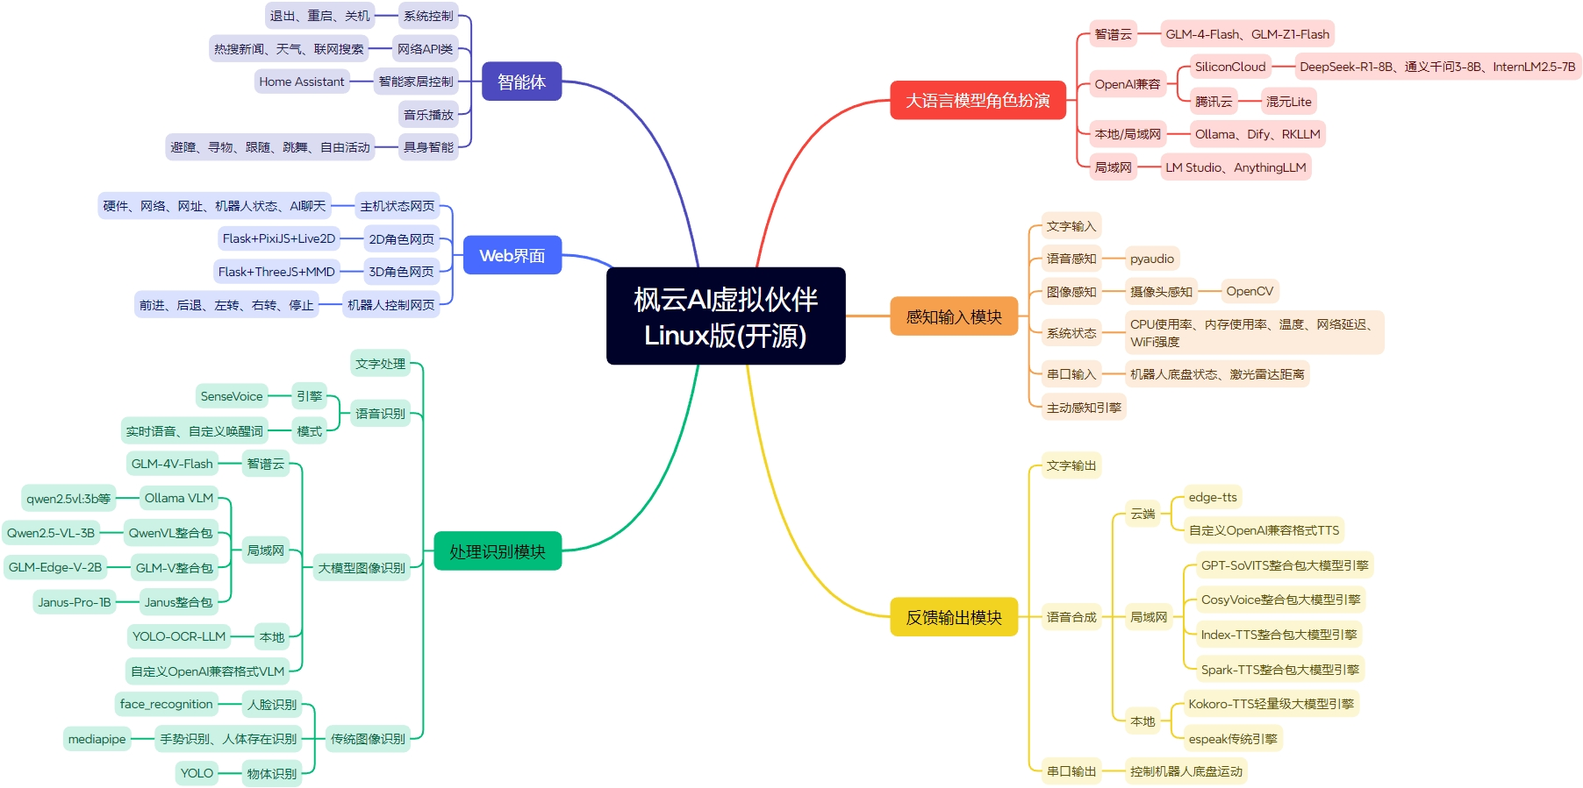
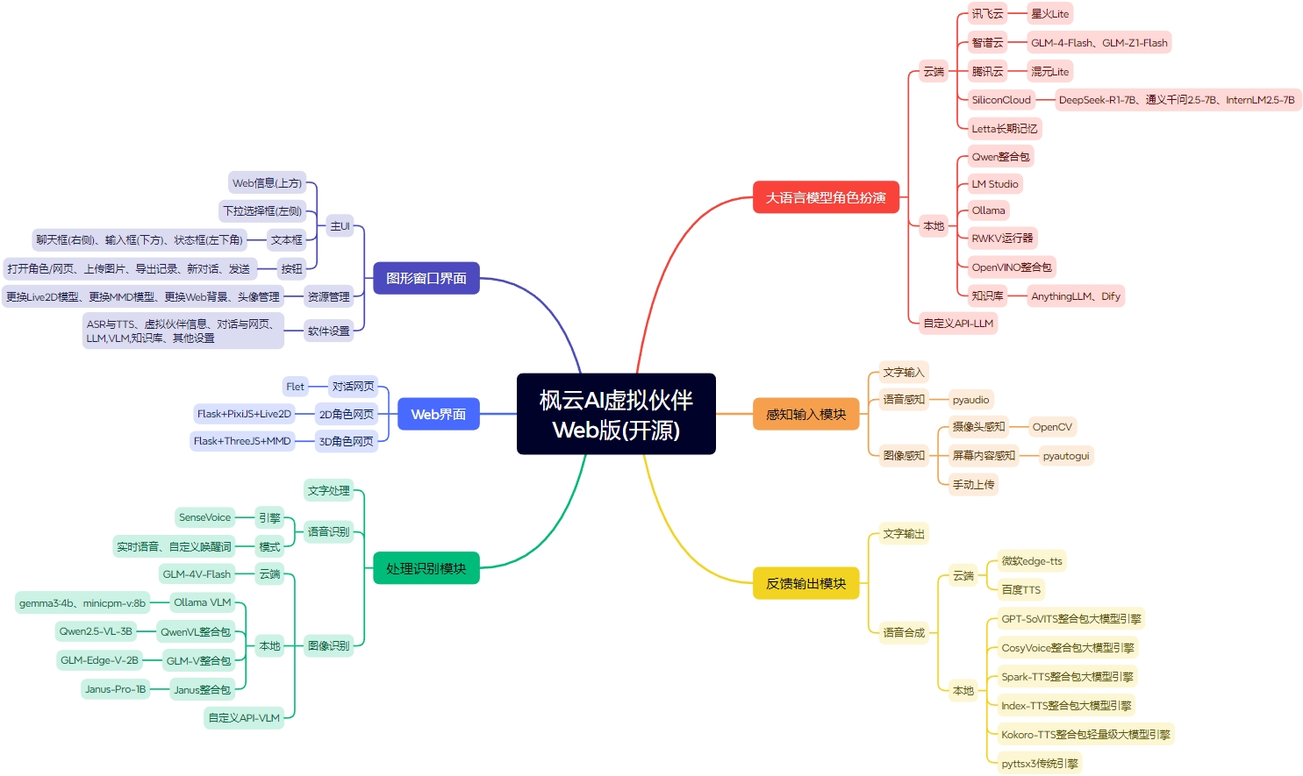
Add files via upload

diff --git a/dist/assets/live2d.js b/dist/assets/live2d.js
@@ -1,8 +1,3 @@
-const Live2DPath = "assets/live2d_model/hiyori_free_t08/hiyori_free_t08.model3.json"; // 模型路径,每次更换模型都需要调整
-const model_x = 725; // 模型横坐标,更换模型后一般需要调整
-const model_y = 0; // 模型纵坐标,更换模型后一般需要调整
-const model_scale = .15; // 模型大小,更换模型后可能需要调整
-
 (function(){const t=document.createElement("link").relList;if(t&&t.supports&&t.supports("modulepreload"))return;for(const n of document.querySelectorAll('link[rel="modulepreload"]'))i(n);new MutationObserver(n=>{for(const s of n)if(s.type==="childList")for(const a of s.addedNodes)a.tagName==="LINK"&&a.rel==="modulepreload"&&i(a)}).observe(document,{childList:!0,subtree:!0});function e(n){const s={};return n.integrity&&(s.integrity=n.integrity),n.referrerPolicy&&(s.referrerPolicy=n.referrerPolicy),n.crossOrigin==="use-credentials"?s.credentials="include":n.crossOrigin==="anonymous"?s.credentials="omit":s.credentials="same-origin",s}function i(n){if(n.ep)return;n.ep=!0;const s=e(n);fetch(n.href,s)}})();function Yd(r){var t=this.constructor;return this.then(function(e){return t.resolve(r()).then(function(){return e})},function(e){return t.resolve(r()).then(function(){return t.reject(e)})})}function qd(r){var t=this;return new t(function(e,i){if(!(r&&typeof r.length<"u"))return i(new TypeError(typeof r+" "+r+" is not iterable(cannot read property Symbol(Symbol.iterator))"));var n=Array.prototype.slice.call(r);if(n.length===0)return e([]);var s=n.length;function a(h,f){if(f&&(typeof f=="object"||typeof f=="function")){var c=f.then;if(typeof c=="function"){c.call(f,function(_){a(h,_)},function(_){n[h]={status:"rejected",reason:_},--s===0&&e(n)});return}}n[h]={status:"fulfilled",value:f},--s===0&&e(n)}for(var o=0;o<n.length;o++)a(o,n[o])})}function Vl(r,t){this.name="AggregateError",this.errors=r,this.message=t||""}Vl.prototype=Error.prototype;function $d(r){var t=this;return new t(function(e,i){if(!(r&&typeof r.length<"u"))return i(new TypeError("Promise.any accepts an array"));var n=Array.prototype.slice.call(r);if(n.length===0)return i();for(var s=[],a=0;a<n.length;a++)try{t.resolve(n[a]).then(e).catch(function(o){s.push(o),s.length===n.length&&i(new Vl(s,"All promises were rejected"))})}catch(o){i(o)}})}var Zd=setTimeout;function zl(r){return!!(r&&typeof r.length<"u")}function Kd(){}function Jd(r,t){return function(){r.apply(t,arguments)}}function Jt(r){if(!(this instanceof Jt))throw new TypeError("Promises must be constructed via new");if(typeof r!="function")throw new TypeError("not a function");this._state=0,this._handled=!1,this._value=void 0,this._deferreds=[],Yl(r,this)}function Wl(r,t){for(;r._state===3;)r=r._value;if(r._state===0){r._deferreds.push(t);return}r._handled=!0,Jt._immediateFn(function(){var e=r._state===1?t.onFulfilled:t.onRejected;if(e===null){(r._state===1?Za:mn)(t.promise,r._value);return}var i;try{i=e(r._value)}catch(n){mn(t.promise,n);return}Za(t.promise,i)})}function Za(r,t){try{if(t===r)throw new TypeError("A promise cannot be resolved with itself.");if(t&&(typeof t=="object"||typeof t=="function")){var e=t.then;if(t instanceof Jt){r._state=3,r._value=t,Ka(r);return}else if(typeof e=="function"){Yl(Jd(e,t),r);return}}r._state=1,r._value=t,Ka(r)}catch(i){mn(r,i)}}function mn(r,t){r._state=2,r._value=t,Ka(r)}function Ka(r){r._state===2&&r._deferreds.length===0&&Jt._immediateFn(function(){r._handled||Jt._unhandledRejectionFn(r._value)});for(var t=0,e=r._deferreds.length;t<e;t++)Wl(r,r._deferreds[t]);r._deferreds=null}function Qd(r,t,e){this.onFulfilled=typeof r=="function"?r:null,this.onRejected=typeof t=="function"?t:null,this.promise=e}function Yl(r,t){var e=!1;try{r(function(i){e||(e=!0,Za(t,i))},function(i){e||(e=!0,mn(t,i))})}catch(i){if(e)return;e=!0,mn(t,i)}}Jt.prototype.catch=function(r){return this.then(null,r)};Jt.prototype.then=function(r,t){var e=new this.constructor(Kd);return Wl(this,new Qd(r,t,e)),e};Jt.prototype.finally=Yd;Jt.all=function(r){return new Jt(function(t,e){if(!zl(r))return e(new TypeError("Promise.all accepts an array"));var i=Array.prototype.slice.call(r);if(i.length===0)return t([]);var n=i.length;function s(o,h){try{if(h&&(typeof h=="object"||typeof h=="function")){var f=h.then;if(typeof f=="function"){f.call(h,function(c){s(o,c)},e);return}}i[o]=h,--n===0&&t(i)}catch(c){e(c)}}for(var a=0;a<i.length;a++)s(a,i[a])})};Jt.any=$d;Jt.allSettled=qd;Jt.resolve=function(r){return r&&typeof r=="object"&&r.constructor===Jt?r:new Jt(function(t){t(r)})};Jt.reject=function(r){return new Jt(function(t,e){e(r)})};Jt.race=function(r){return new Jt(function(t,e){if(!zl(r))return e(new TypeError("Promise.race accepts an array"));for(var i=0,n=r.length;i<n;i++)Jt.resolve(r[i]).then(t,e)})};Jt._immediateFn=typeof setImmediate=="function"&&function(r){setImmediate(r)}||function(r){Zd(r,0)};Jt._unhandledRejectionFn=function(t){typeof console<"u"&&console&&console.warn("Possible Unhandled Promise Rejection:",t)};var Es=typeof globalThis<"u"?globalThis:typeof window<"u"?window:typeof global<"u"?global:typeof self<"u"?self:{};function Bs(r){return r&&r.__esModule&&Object.prototype.hasOwnProperty.call(r,"default")?r.default:r}/*
 object-assign
 (c) Sindre Sorhus
@@ -1583,12 +1578,12 @@ PERFORMANCE OF THIS SOFTWARE.
 `,a),s(a)}return Promise.resolve(void 0)}static loadExpression(r,t){var e;const i=n=>r.emit("expressionLoadError",t,n);try{const n=r.definitions[t];if(!n)return Promise.resolve(void 0);r.listeners("destroy").includes(ve.releaseTasks)||r.once("destroy",ve.releaseTasks);let s=ve.expressionTasksMap.get(r);s||(s=[],ve.expressionTasksMap.set(r,s));const a=r.getExpressionFile(n);return(e=s[t])!=null||(s[t]=Hr.load({url:a,settings:r.settings,type:"json",target:r}).then(o=>{const h=ve.expressionTasksMap.get(r);h&&delete h[t];const f=r.createExpression(o,n);return r.emit("expressionLoaded",t,f),f}).catch(o=>{Ut.warn(r.tag,`Failed to load expression: ${a}
 `,o),i(o)})),s[t]}catch(n){Ut.warn(r.tag,`Failed to load expression at [${t}]
 `,n),i(n)}return Promise.resolve(void 0)}static releaseTasks(){this instanceof $u?ve.motionTasksMap.delete(this):ve.expressionTasksMap.delete(this)}};let Qt=ve;Qt.runtimes=[];Qt.urlToJSON=qc;Qt.jsonToSettings=$c;Qt.waitUntilReady=Zc;Qt.setupOptionals=Kc;Qt.setupEssentials=Jc;Qt.createInternalModel=Qc;Qt.live2DModelMiddlewares=[qc,$c,Zc,Kc,Jc,Qc];Qt.motionTasksMap=new WeakMap;Qt.expressionTasksMap=new WeakMap;$u.prototype._loadMotion=function(r,t){return Qt.loadMotion(this,r,t)};Wc.prototype._loadExpression=function(r){return Qt.loadExpression(this,r)};class lb{constructor(){this._autoInteract=!1}get autoInteract(){return this._autoInteract}set autoInteract(t){t!==this._autoInteract&&(t?this.on("pointertap",Gl,this):this.off("pointertap",Gl,this),this._autoInteract=t)}registerInteraction(t){t!==this.interactionManager&&(this.unregisterInteraction(),this._autoInteract&&t&&(this.interactionManager=t,t.on("pointermove",Hl,this)))}unregisterInteraction(){var t;this.interactionManager&&((t=this.interactionManager)==null||t.off("pointermove",Hl,this),this.interactionManager=void 0)}}function Gl(r){this.tap(r.data.global.x,r.data.global.y)}function Hl(r){this.focus(r.data.global.x,r.data.global.y)}class fb extends js{}const Oe=new kt,cb=new Yt;let Dr;class td extends Xe{constructor(t){super(),this.tag="Live2DModel(uninitialized)",this.textures=[],this.transform=new fb,this.anchor=new Lr(this.onAnchorChange,this,0,0),this.glContextID=-1,this.elapsedTime=performance.now(),this.deltaTime=0,this._autoUpdate=!1,this.once("modelLoaded",()=>this.init(t))}static from(t,e){const i=new this(e);return Qt.setupLive2DModel(i,t,e).then(()=>i)}static fromSync(t,e){const i=new this(e);return Qt.setupLive2DModel(i,t,e).then(e?.onLoad).catch(e?.onError),i}static registerTicker(t){Dr=t}get autoUpdate(){return this._autoUpdate}set autoUpdate(t){var e;Dr||(Dr=(e=window.PIXI)==null?void 0:e.Ticker),t?this._destroyed||(Dr?(Dr.shared.add(this.onTickerUpdate,this),this._autoUpdate=!0):Ut.warn(this.tag,"No Ticker registered, please call Live2DModel.registerTicker(Ticker).")):(Dr?.shared.remove(this.onTickerUpdate,this),this._autoUpdate=!1)}init(t){this.tag=`Live2DModel(${this.internalModel.settings.name})`;const e=Object.assign({autoUpdate:!0,autoInteract:!0},t);e.autoInteract&&(this.interactive=!0),this.autoInteract=e.autoInteract,this.autoUpdate=e.autoUpdate}onAnchorChange(){this.pivot.set(this.anchor.x*this.internalModel.width,this.anchor.y*this.internalModel.height)}motion(t,e,i){return e===void 0?this.internalModel.motionManager.startRandomMotion(t,i):this.internalModel.motionManager.startMotion(t,e,i)}expression(t){return this.internalModel.motionManager.expressionManager?t===void 0?this.internalModel.motionManager.expressionManager.setRandomExpression():this.internalModel.motionManager.expressionManager.setExpression(t):Promise.resolve(!1)}focus(t,e,i=!1){Oe.x=t,Oe.y=e,this.toModelPosition(Oe,Oe,!0);let n=Oe.x/this.internalModel.originalWidth*2-1,s=Oe.y/this.internalModel.originalHeight*2-1,a=Math.atan2(s,n);this.internalModel.focusController.focus(Math.cos(a),-Math.sin(a),i)}tap(t,e){const i=this.hitTest(t,e);i.length&&(Ut.log(this.tag,"Hit",i),this.emit("hit",i))}hitTest(t,e){return Oe.x=t,Oe.y=e,this.toModelPosition(Oe,Oe),this.internalModel.hitTest(Oe.x,Oe.y)}toModelPosition(t,e=t.clone(),i){return i||(this._recursivePostUpdateTransform(),this.parent?this.displayObjectUpdateTransform():(this.parent=this._tempDisplayObjectParent,this.displayObjectUpdateTransform(),this.parent=null)),this.transform.worldTransform.applyInverse(t,e),this.internalModel.localTransform.applyInverse(e,e),e}containsPoint(t){return this.getBounds(!0).contains(t.x,t.y)}_calculateBounds(){this._bounds.addFrame(this.transform,0,0,this.internalModel.width,this.internalModel.height)}onTickerUpdate(){this.update(Dr.shared.deltaMS)}update(t){this.deltaTime+=t,this.elapsedTime+=t}_render(t){this.registerInteraction(t.plugins.interaction),t.batch.reset(),t.geometry.reset(),t.shader.reset(),t.state.reset();let e=!1;this.glContextID!==t.CONTEXT_UID&&(this.glContextID=t.CONTEXT_UID,this.internalModel.updateWebGLContext(t.gl,this.glContextID),e=!0);for(let s=0;s<this.textures.length;s++){const a=this.textures[s];a.valid&&((e||!a.baseTexture._glTextures[this.glContextID])&&(t.gl.pixelStorei(WebGLRenderingContext.UNPACK_FLIP_Y_WEBGL,this.internalModel.textureFlipY),t.texture.bind(a.baseTexture,0)),this.internalModel.bindTexture(s,a.baseTexture._glTextures[this.glContextID].texture),a.baseTexture.touched=t.textureGC.count)}const i=t.framebuffer.viewport;this.internalModel.viewport=[i.x,i.y,i.width,i.height],this.deltaTime&&(this.internalModel.update(this.deltaTime,this.elapsedTime),this.deltaTime=0);const n=cb.copyFrom(t.globalUniforms.uniforms.projectionMatrix).append(this.worldTransform);this.internalModel.updateTransform(n),this.internalModel.draw(t.gl),t.state.reset(),t.texture.reset()}destroy(t){this.emit("destroy"),this.autoUpdate=!1,this.unregisterInteraction(),t?.texture&&this.textures.forEach(e=>e.destroy(t.baseTexture)),this.internalModel.destroy(),super.destroy(t)}}zc(td,[lb]);const ur=class{static resolveURL(r,t){var e;const i=(e=ur.filesMap[r])==null?void 0:e[t];if(i===void 0)throw new Error("Cannot find this file from uploaded files: "+t);return i}static upload(r,t){return $t(this,null,function*(){const e={};for(const i of t.getDefinedFiles()){const n=decodeURI(lr.resolve(t.url,i)),s=r.find(a=>a.webkitRelativePath===n);s&&(e[i]=URL.createObjectURL(s))}ur.filesMap[t._objectURL]=e})}static createSettings(r){return $t(this,null,function*(){const t=r.find(a=>a.name.endsWith("model.json")||a.name.endsWith("model3.json"));if(!t)throw new TypeError("Settings file not found");const e=yield ur.readText(t),i=JSON.parse(e);i.url=t.webkitRelativePath;const n=Qt.findRuntime(i);if(!n)throw new Error("Unknown settings JSON");const s=n.createModelSettings(i);return s._objectURL=URL.createObjectURL(t),s})}static readText(r){return $t(this,null,function*(){return new Promise((t,e)=>{const i=new FileReader;i.onload=()=>t(i.result),i.onerror=e,i.readAsText(r,"utf8")})})}};let Zu=ur;Zu.filesMap={};Zu.factory=(r,t)=>$t(void 0,null,function*(){if(Array.isArray(r.source)&&r.source[0]instanceof File){const e=r.source;let i=e.settings;if(!i)i=yield ur.createSettings(e);else if(!i._objectURL)throw new Error('"_objectURL" must be specified in ModelSettings');i.validateFiles(e.map(n=>encodeURI(n.webkitRelativePath))),yield ur.upload(e,i),i.resolveURL=function(n){return ur.resolveURL(this._objectURL,n)},r.source=i,r.live2dModel.once("modelLoaded",n=>{n.once("destroy",function(){const s=this.settings._objectURL;if(URL.revokeObjectURL(s),ur.filesMap[s])for(const a of Object.values(ur.filesMap[s]))URL.revokeObjectURL(a);delete ur.filesMap[s]})})}return t()});Qt.live2DModelMiddlewares.unshift(Zu.factory);const Se=class{static unzip(r,t){return $t(this,null,function*(){const e=yield Se.getFilePaths(r),i=[];for(const s of t.getDefinedFiles()){const a=decodeURI(lr.resolve(t.url,s));e.includes(a)&&i.push(a)}const n=yield Se.getFiles(r,i);for(let s=0;s<n.length;s++){const a=i[s],o=n[s];Object.defineProperty(o,"webkitRelativePath",{value:a})}return n})}static createSettings(r){return $t(this,null,function*(){const e=(yield Se.getFilePaths(r)).find(a=>a.endsWith("model.json")||a.endsWith("model3.json"));if(!e)throw new Error("Settings file not found");const i=yield Se.readText(r,e);if(!i)throw new Error("Empty settings file: "+e);const n=JSON.parse(i);n.url=e;const s=Qt.findRuntime(n);if(!s)throw new Error("Unknown settings JSON");return s.createModelSettings(n)})}static zipReader(r,t){return $t(this,null,function*(){throw new Error("Not implemented")})}static getFilePaths(r){return $t(this,null,function*(){throw new Error("Not implemented")})}static getFiles(r,t){return $t(this,null,function*(){throw new Error("Not implemented")})}static readText(r,t){return $t(this,null,function*(){throw new Error("Not implemented")})}static releaseReader(r){}};let Zs=Se;Zs.ZIP_PROTOCOL="zip://";Zs.uid=0;Zs.factory=(r,t)=>$t(void 0,null,function*(){const e=r.source;let i,n,s;if(typeof e=="string"&&(e.endsWith(".zip")||e.startsWith(Se.ZIP_PROTOCOL))?(e.startsWith(Se.ZIP_PROTOCOL)?i=e.slice(Se.ZIP_PROTOCOL.length):i=e,n=yield Hr.load({url:i,type:"blob",target:r.live2dModel})):Array.isArray(e)&&e.length===1&&e[0]instanceof File&&e[0].name.endsWith(".zip")&&(n=e[0],i=URL.createObjectURL(n),s=e.settings),n){if(!n.size)throw new Error("Empty zip file");const a=yield Se.zipReader(n,i);s||(s=yield Se.createSettings(a)),s._objectURL=Se.ZIP_PROTOCOL+Se.uid+"/"+s.url;const o=yield Se.unzip(a,s);o.settings=s,r.source=o,i.startsWith("blob:")&&r.live2dModel.once("modelLoaded",h=>{h.once("destroy",function(){URL.revokeObjectURL(i)})}),Se.releaseReader(a)}return t()});Qt.live2DModelMiddlewares.unshift(Zs.factory);if(!window.Live2DCubismCore)throw new Error("Could not find Cubism 4 runtime. This plugin requires live2dcubismcore.js to be loaded.");class db extends Wc{constructor(t,e){var i;super(t,e),this.queueManager=new Hc,this.definitions=(i=t.expressions)!=null?i:[],this.init()}isFinished(){return this.queueManager.isFinished()}getExpressionIndex(t){return this.definitions.findIndex(e=>e.Name===t)}getExpressionFile(t){return t.File}createExpression(t,e){return ju.create(t)}_setExpression(t){return this.queueManager.startMotion(t,!1,performance.now())}stopAllExpressions(){this.queueManager.stopAllMotions()}updateParameters(t,e){return this.queueManager.doUpdateMotion(t,e)}}class Ni extends qu{constructor(t){if(super(t),!Ni.isValidJSON(t))throw new TypeError("Invalid JSON.");Object.assign(this,new Vc(t))}static isValidJSON(t){var e;return!!t?.FileReferences&&typeof t.FileReferences.Moc=="string"&&((e=t.FileReferences.Textures)==null?void 0:e.length)>0&&t.FileReferences.Textures.every(i=>typeof i=="string")}replaceFiles(t){if(super.replaceFiles(t),this.motions)for(const[e,i]of Object.entries(this.motions))for(let n=0;n<i.length;n++)i[n].File=t(i[n].File,`motions.${e}[${n}].File`),i[n].Sound!==void 0&&(i[n].Sound=t(i[n].Sound,`motions.${e}[${n}].Sound`));if(this.expressions)for(let e=0;e<this.expressions.length;e++)this.expressions[e].File=t(this.expressions[e].File,`expressions[${e}].File`)}}zc(Ni,[Vc]);class pb extends $u{constructor(t,e){var i;super(t,e),this.groups={idle:"Idle"},this.motionDataType="json",this.queueManager=new Hc,this.definitions=(i=t.motions)!=null?i:{},this.eyeBlinkIds=t.getEyeBlinkParameters()||[],this.lipSyncIds=t.getLipSyncParameters()||[],this.init(e)}init(t){super.init(t),this.settings.expressions&&(this.expressionManager=new db(this.settings,t)),this.queueManager.setEventCallback((e,i,n)=>{this.emit("motion:"+i)})}isFinished(){return this.queueManager.isFinished()}_startMotion(t,e){return t.setFinishedMotionHandler(e),this.queueManager.stopAllMotions(),this.queueManager.startMotion(t,!1,performance.now())}_stopAllMotions(){this.queueManager.stopAllMotions()}createMotion(t,e,i){const n=zu.create(t),s=new Gc(t),a=(e===this.groups.idle?Ae.idleMotionFadingDuration:Ae.motionFadingDuration)/1e3;return s.getMotionFadeInTime()===void 0&&n.setFadeInTime(i.FadeInTime>0?i.FadeInTime:a),s.getMotionFadeOutTime()===void 0&&n.setFadeOutTime(i.FadeOutTime>0?i.FadeOutTime:a),n.setEffectIds(this.eyeBlinkIds,this.lipSyncIds),n}getMotionFile(t){return t.File}getMotionName(t){return t.File}getSoundFile(t){return t.Sound}updateParameters(t,e){return this.queueManager.doUpdateMotion(t,e)}destroy(){super.destroy(),this.queueManager.release(),this.queueManager=void 0}}const Xl=new ke;class vb extends ob{constructor(t,e,i){super(),this.lipSync=!0,this.breath=ku.create(),this.renderer=new jc,this.idParamAngleX=zx,this.idParamAngleY=Wx,this.idParamAngleZ=Yx,this.idParamEyeBallX=qx,this.idParamEyeBallY=$x,this.idParamBodyAngleX=Zx,this.idParamBreath=Kx,this.pixelsPerUnit=1,this.centeringTransform=new Yt,this.coreModel=t,this.settings=e,this.motionManager=new pb(e,i),this.init()}init(){var t;super.init(),((t=this.settings.getEyeBlinkParameters())==null?void 0:t.length)>0&&(this.eyeBlink=Uc.create(this.settings)),this.breath.setParameters([new hn(this.idParamAngleX,0,15,6.5345,.5),new hn(this.idParamAngleY,0,8,3.5345,.5),new hn(this.idParamAngleZ,0,10,5.5345,.5),new hn(this.idParamBodyAngleX,0,4,15.5345,.5),new hn(this.idParamBreath,0,.5,3.2345,.5)]),this.renderer.initialize(this.coreModel),this.renderer.setIsPremultipliedAlpha(!0)}getSize(){return[this.coreModel.getModel().canvasinfo.CanvasWidth,this.coreModel.getModel().canvasinfo.CanvasHeight]}getLayout(){const t={};if(this.settings.layout)for(const e of Object.keys(this.settings.layout)){const i=e.charAt(0).toLowerCase()+e.slice(1);t[i]=this.settings.layout[e]}return t}setupLayout(){super.setupLayout(),this.pixelsPerUnit=this.coreModel.getModel().canvasinfo.PixelsPerUnit,this.centeringTransform.scale(this.pixelsPerUnit,this.pixelsPerUnit).translate(this.originalWidth/2,this.originalHeight/2)}updateWebGLContext(t,e){this.renderer.firstDraw=!0,this.renderer._bufferData={vertex:null,uv:null,index:null},this.renderer.startUp(t),this.renderer._clippingManager._currentFrameNo=e,this.renderer._clippingManager._maskTexture=void 0,Li.getInstance()._shaderSets=[]}bindTexture(t,e){this.renderer.bindTexture(t,e)}getHitAreaDefs(){var t,e;return(e=(t=this.settings.hitAreas)==null?void 0:t.map(i=>({id:i.Id,name:i.Name,index:this.coreModel.getDrawableIndex(i.Id)})))!=null?e:[]}getDrawableIDs(){return this.coreModel.getDrawableIds()}getDrawableIndex(t){return this.coreModel.getDrawableIndex(t)}getDrawableVertices(t){if(typeof t=="string"&&(t=this.coreModel.getDrawableIndex(t),t===-1))throw new TypeError("Unable to find drawable ID: "+t);const e=this.coreModel.getDrawableVertices(t).slice();for(let i=0;i<e.length;i+=2)e[i]=e[i]*this.pixelsPerUnit+this.originalWidth/2,e[i+1]=-e[i+1]*this.pixelsPerUnit+this.originalHeight/2;return e}updateTransform(t){this.drawingMatrix.copyFrom(this.centeringTransform).prepend(this.localTransform).prepend(t)}update(t,e){var i,n,s,a;super.update(t,e),t/=1e3,e/=1e3;const o=this.coreModel;this.emit("beforeMotionUpdate");const h=this.motionManager.update(this.coreModel,e);this.emit("afterMotionUpdate"),o.saveParameters(),(i=this.motionManager.expressionManager)==null||i.update(o,e),h||(n=this.eyeBlink)==null||n.updateParameters(o,t),this.updateFocus(),this.updateNaturalMovements(t*1e3,e*1e3),(s=this.physics)==null||s.evaluate(o,t),(a=this.pose)==null||a.updateParameters(o,t),this.emit("beforeModelUpdate"),o.update(),o.loadParameters()}updateFocus(){this.coreModel.addParameterValueById(this.idParamEyeBallX,this.focusController.x),this.coreModel.addParameterValueById(this.idParamEyeBallY,this.focusController.y),this.coreModel.addParameterValueById(this.idParamAngleX,this.focusController.x*30),this.coreModel.addParameterValueById(this.idParamAngleY,this.focusController.y*30),this.coreModel.addParameterValueById(this.idParamAngleZ,this.focusController.x*this.focusController.y*-30),this.coreModel.addParameterValueById(this.idParamBodyAngleX,this.focusController.x*10)}updateNaturalMovements(t,e){var i;(i=this.breath)==null||i.updateParameters(this.coreModel,t/1e3)}draw(t){const e=this.drawingMatrix,i=Xl.getArray();i[0]=e.a,i[1]=e.b,i[4]=-e.c,i[5]=-e.d,i[12]=e.tx,i[13]=e.ty,this.renderer.setMvpMatrix(Xl),this.renderer.setRenderState(t.getParameter(t.FRAMEBUFFER_BINDING),this.viewport),this.renderer.drawModel()}destroy(){super.destroy(),this.renderer.release(),this.coreModel.release(),this.renderer=void 0,this.coreModel=void 0}}let Ts,jl=20;function gb(){return Nn.isStarted()?Promise.resolve():(Ts??(Ts=new Promise((r,t)=>{function e(){try{_b(),r()}catch(i){if(jl--,jl<0){const n=new Error("Failed to start up Cubism 4 framework.");n.cause=i,t(n);return}Ut.log("Cubism4","Startup failed, retrying 10ms later..."),setTimeout(e,10)}}e()})),Ts)}function _b(r){r=Object.assign({logFunction:console.log,loggingLevel:gi.LogLevel_Verbose},r),Nn.startUp(r),Nn.initialize()}Qt.registerRuntime({version:4,ready:gb,test(r){return r instanceof Ni||Ni.isValidJSON(r)},isValidMoc(r){if(r.byteLength<4)return!1;const t=new Int8Array(r,0,4);return String.fromCharCode(...t)==="MOC3"},createModelSettings(r){return new Ni(r)},createCoreModel(r){const t=Xu.create(r);try{const e=t.createModel();return e.__moc=t,e}catch(e){try{t.release()}catch{}throw e}},createInternalModel(r,t,e){const i=new vb(r,t,e),n=r;return n.__moc&&(i.__moc=n.__moc,delete n.__moc,i.once("destroy",mb)),i},createPhysics(r,t){return Wu.create(t)},createPose(r,t){return Gu.create(t)}});function mb(){var r;(r=this.__moc)==null||r.release()}window.PIXI=W0;const yb=new Uu({view:document.getElementById("canvas2"),autoStart:!0,transparent: true,backgroundColor: 0x00000000}),
-xb=Live2DPath,
+xb="assets/live2d_model/hiyori_free_t08/hiyori_free_t08.model3.json",// 模型路径,每次更换模型都需要调整
 _i=await td.from(xb);yb.stage.addChild(_i);// 无需修改
-_i.x=model_x;
-_i.y=model_y;
+_i.x=625;  // 模型横坐标,更换模型后一般需要调整
+_i.y=-25;  // 模型纵坐标,更换模型后一般需要调整
 _i.rotation=Math.PI;_i.skew.x=Math.PI;// 无需修改
-_i.scale.set(model_scale);
+_i.scale.set(.15);  // 模型大小,更换模型后可能需要调整
 const bb=r=>{r=Math.max(0,Math.min(1,r)),_i.internalModel.coreModel.setParameterValueById("ParamMouthOpenY",r)};setInterval(()=>{q0.ajax({type:"GET",url:"/api/get_mouth_y",dataType:"json",async:!0,success(r){bb(parseFloat(r.y))}})},100);
 const canvasElement = document.getElementById("canvas2");
 canvasElement.style.backgroundColor = 'transparent';

diff --git a/dist/assets/mmd.js b/dist/assets/mmd.js
@@ -1,7 +1,3 @@
-const mmdPath = 'assets/mmd_model/小月(仅作示例,无法显示)/小月.pmx'; // 人物模型路径
-const mouthMorphIndex = 32; // 嘴的 morph target 索引
-const blinkMorphIndex = 9; // 眨眼的 morph target 索引
-
 let camera, scene, renderer, controls, model, helper;
 let mouthOpen = false;
 let lastTime = Date.now();
@@ -11,6 +7,9 @@ let blinkInterval = 3000; // 眨眼间隔（毫秒）
 let lastBlinkTime = Date.now(); // 上次眨眼的时间
 let isBlinking = false; // 当前是否正在眨眼
 let mouthYValue = 0; // 用于存储API返回的mouth_y值
+const mmdPath = 'assets/mmd_model/小月(仅作示例,无法显示)/小月.pmx'; // 人物模型路径
+const mouthMorphIndex = 30; // 嘴的 morph target 索引
+const blinkMorphIndex =6; // 眨眼的 morph target 索引
 init();
 animate();
 function init() {

diff --git a/dist/mmd_vmd_web.html b/dist/mmd_vmd_web.html
@@ -4,7 +4,7 @@
     <meta charset="UTF-8">
     <link rel="icon" type="image/png" href="assets/image/logo.png" />
     <meta name="viewport" content="width=device-width, initial-scale=1.0">
-    <title>3D动作 - 枫云AI虚拟伙伴Linux版</title>
+    <title>3D动作 - 枫云AI虚拟伙伴Web版</title>
     <style>
         body {
             margin: 0;
@@ -22,7 +22,6 @@
     <script src="/assets/mmd_core/three.min.js"></script>
     <script src="/assets/mmd_core/CCDIKSolver.js"></script>
     <script src="/assets/mmd_core/MMDPhysics.js"></script>
-    <script src="/assets/mmd_core/TGALoader.js"></script>
     <script src="/assets/mmd_core/MMDLoader.js"></script>
     <script src="/assets/mmd_core/OrbitControls.js"></script>
     <script src="/assets/mmd_core/MMDAnimationHelper.js"></script>

diff --git a/dist/mmd_web.html b/dist/mmd_web.html
@@ -4,7 +4,7 @@
     <meta charset="UTF-8">
     <link rel="icon" type="image/png" href="assets/image/logo.png" />
     <meta name="viewport" content="width=device-width, initial-scale=1.0">
-    <title>3D角色 - 枫云AI虚拟伙伴Linux版</title>
+    <title>3D角色 - 枫云AI虚拟伙伴Web版</title>
     <style>
         body {
             margin: 0;
@@ -24,7 +24,6 @@
     <script src="/assets/mmd_core/three.min.js"></script>
     <script src="/assets/mmd_core/CCDIKSolver.js"></script>
     <script src="/assets/mmd_core/MMDPhysics.js"></script>
-    <script src="/assets/mmd_core/TGALoader.js"></script>
     <script src="/assets/mmd_core/MMDLoader.js"></script>
     <script src="/assets/mmd_core/OrbitControls.js"></script>
     <script src="/assets/mmd_core/MMDAnimationHelper.js"></script>

diff --git a/dist/live2d_web.html b/dist/live2d_web.html
@@ -23,7 +23,7 @@
     <script src="/assets/live2d_core/live2dcubismcore.min.js"></script>
     <script src="/assets/live2d_core/live2d.min.js"></script>
     <script src="/assets/live2d_core/pixi.min.js"></script>
-    <title>2D角色 - 枫云AI虚拟伙伴Linux版</title>
+    <title>2D角色 - 枫云AI虚拟伙伴Web版</title>
     <script type="module" crossorigin src="/assets/live2d.js"></script>
   </head>
   <body>

diff --git a/dist/assets/mmd_vmd.js b/dist/assets/mmd_vmd.js
@@ -1,7 +1,6 @@
+let camera, scene, renderer, controls, model, helper;
 const mmdPath = 'assets/mmd_model/小月(仅作示例,无法显示)/小月.pmx'; // 人物模型路径
 const vmdPath = 'assets/mmd_action/example.vmd'; // 人物动作路径
-
-let camera, scene, renderer, controls, model, helper;
 init();
 animate();
 function init() {
